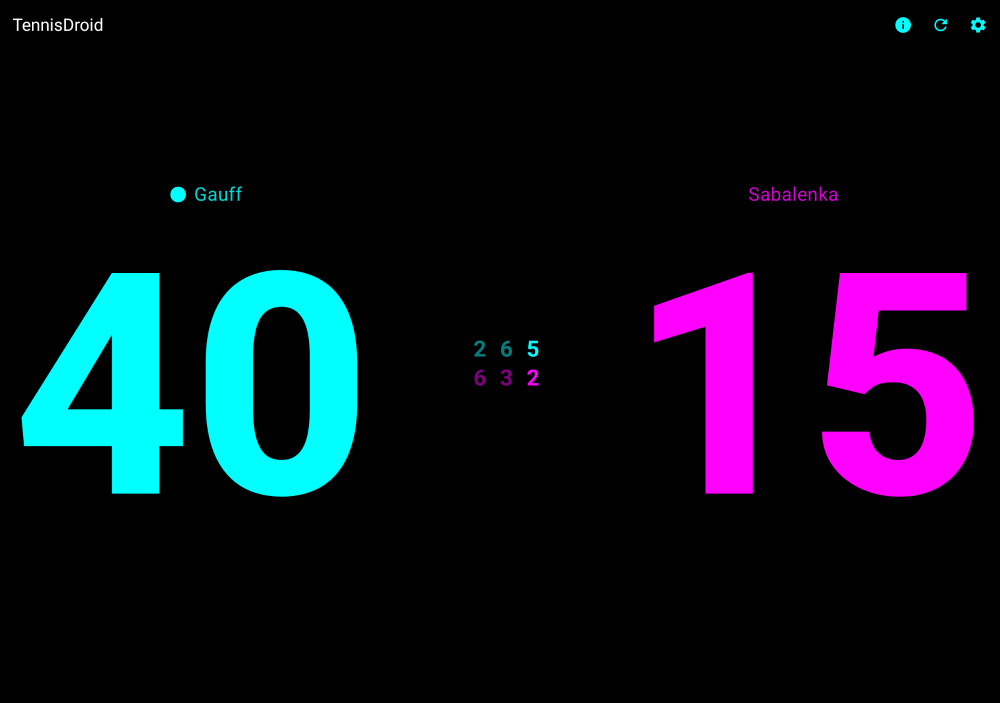
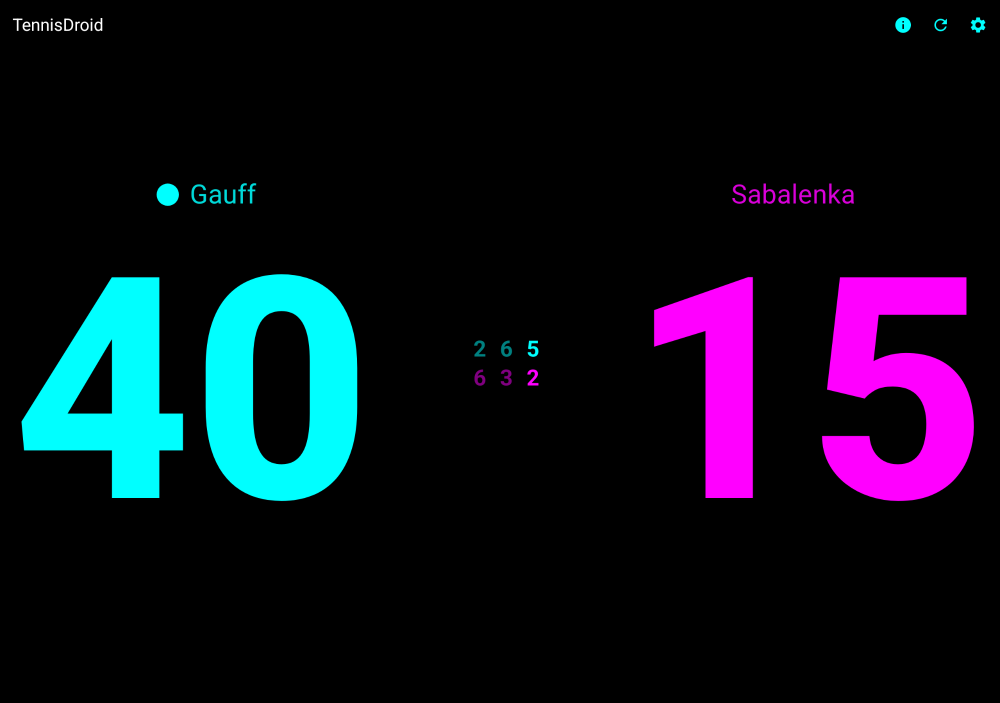
Fix name scaling

diff --git a/app/src/main/java/com/nuttyknot/tennisscoretracker/ui/score/ScoreColumn.kt b/app/src/main/java/com/nuttyknot/tennisscoretracker/ui/score/ScoreColumn.kt
@@ -254,12 +254,13 @@ fun ScoreColumn(
     mainTextSize: TextUnit,
     color: Color,
     alignment: Alignment = Alignment.Center,
+    scaleFactor: Float = 1f,
 ) {
     val configuration = LocalConfiguration.current
     val isLandscape = configuration.orientation == Configuration.ORIENTATION_LANDSCAPE
 
     if (isLandscape) {
-        LandscapeScoreColumn(data, mainTextSize, color, alignment)
+        LandscapeScoreColumn(data, mainTextSize, color, alignment, scaleFactor)
     } else {
         PortraitScoreColumn(data, mainTextSize, color)
     }
@@ -272,6 +273,7 @@ private fun LandscapeScoreColumn(
     mainTextSize: TextUnit,
     color: Color,
     alignment: Alignment,
+    scaleFactor: Float = 1f,
 ) {
     val finalAlignment = if (data.score == "0") Alignment.Center else alignment
 
@@ -291,6 +293,7 @@ private fun LandscapeScoreColumn(
                 isServing = data.isServing,
                 color = color,
                 modifier = Modifier.align(Alignment.CenterHorizontally),
+                scaleFactor = scaleFactor,
             )
         }
         Text(
@@ -340,17 +343,19 @@ private fun PlayerNameLabel(
     isServing: Boolean,
     color: Color,
     modifier: Modifier = Modifier,
+    scaleFactor: Float = 1f,
 ) {
+    val dotRadius = ScoreScreenConstants.SERVING_DOT_RADIUS * scaleFactor
     Row(
         modifier = modifier,
         verticalAlignment = Alignment.CenterVertically,
-        horizontalArrangement = Arrangement.spacedBy(ScoreScreenConstants.SERVING_DOT_RADIUS),
+        horizontalArrangement = Arrangement.spacedBy(dotRadius),
     ) {
         if (isServing) {
             Box(
                 modifier =
                     Modifier
-                        .size(ScoreScreenConstants.SERVING_DOT_RADIUS * 2)
+                        .size(dotRadius * 2)
                         .clip(CircleShape)
                         .background(color),
             )
@@ -358,7 +363,7 @@ private fun PlayerNameLabel(
         Text(
             text = name,
             color = color.copy(alpha = ScoreScreenConstants.NAME_ALPHA),
-            fontSize = ScoreScreenConstants.NAME_TEXT_SIZE,
+            fontSize = ScoreScreenConstants.NAME_TEXT_SIZE * scaleFactor,
             maxLines = 1,
         )
     }

diff --git a/app/src/main/java/com/nuttyknot/tennisscoretracker/ui/score/ScoreScreen.kt b/app/src/main/java/com/nuttyknot/tennisscoretracker/ui/score/ScoreScreen.kt
@@ -140,9 +140,7 @@ internal fun LandscapeScoreContent(
     val scaleFactor = (maxWidth / ScoreScreenConstants.LANDSCAPE_REFERENCE_WIDTH).coerceAtLeast(1f)
     val middleColumnWidth = ScoreScreenConstants.MIDDLE_COLUMN_WIDTH * scaleFactor
     val rawSize = maxHeight / ScoreScreenConstants.LANDSCAPE_TEXT_SIZE_RATIO.toFloat()
-    val maxSafeSize =
-        (maxWidth - middleColumnWidth.value) /
-            ScoreScreenConstants.LANDSCAPE_MAX_SAFE_SIZE_FACTOR
+    val maxSafeSize = (maxWidth - middleColumnWidth.value) / ScoreScreenConstants.LANDSCAPE_MAX_SAFE_SIZE_FACTOR
     val mainTextSize = minOf(rawSize, maxSafeSize).sp
     Row(
         modifier = Modifier.fillMaxSize(),
@@ -164,6 +162,7 @@ internal fun LandscapeScoreContent(
                 mainTextSize = mainTextSize,
                 color = MaterialTheme.colorScheme.primary,
                 alignment = Alignment.CenterStart,
+                scaleFactor = scaleFactor,
             )
         }
 
@@ -196,6 +195,7 @@ internal fun LandscapeScoreContent(
                 mainTextSize = mainTextSize,
                 color = MaterialTheme.colorScheme.secondary,
                 alignment = Alignment.CenterEnd,
+                scaleFactor = scaleFactor,
             )
         }
     }
